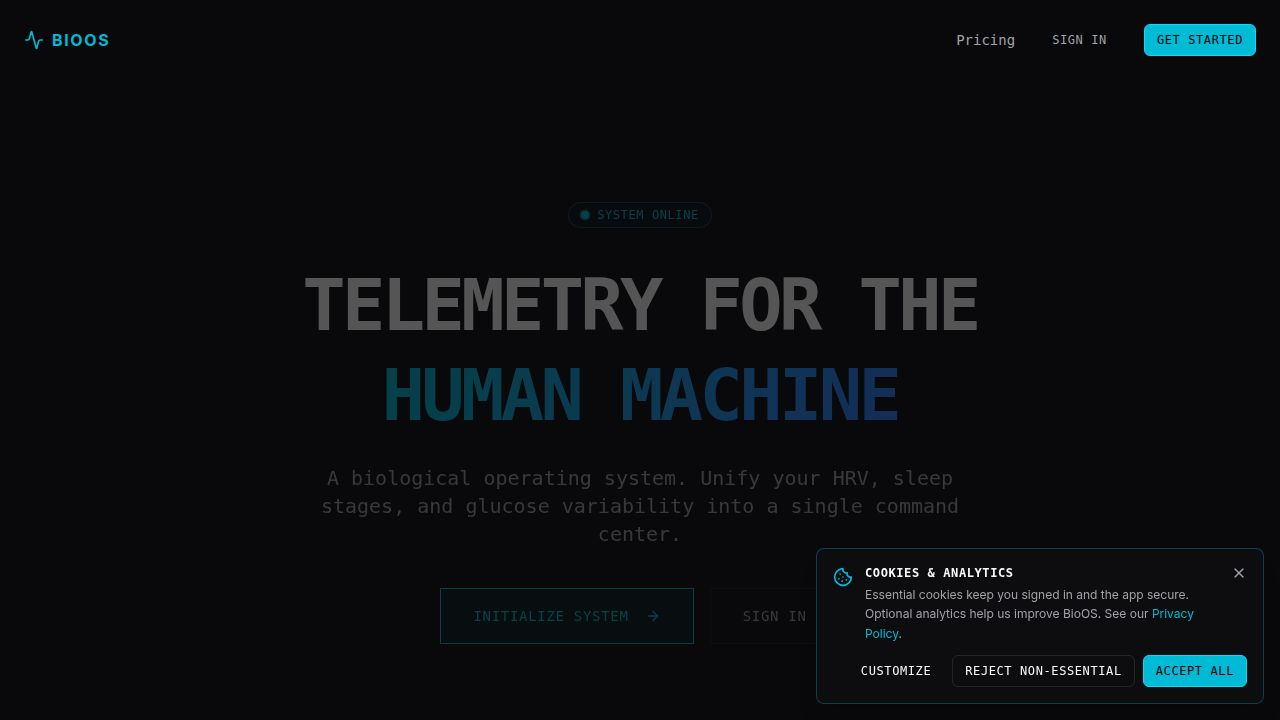
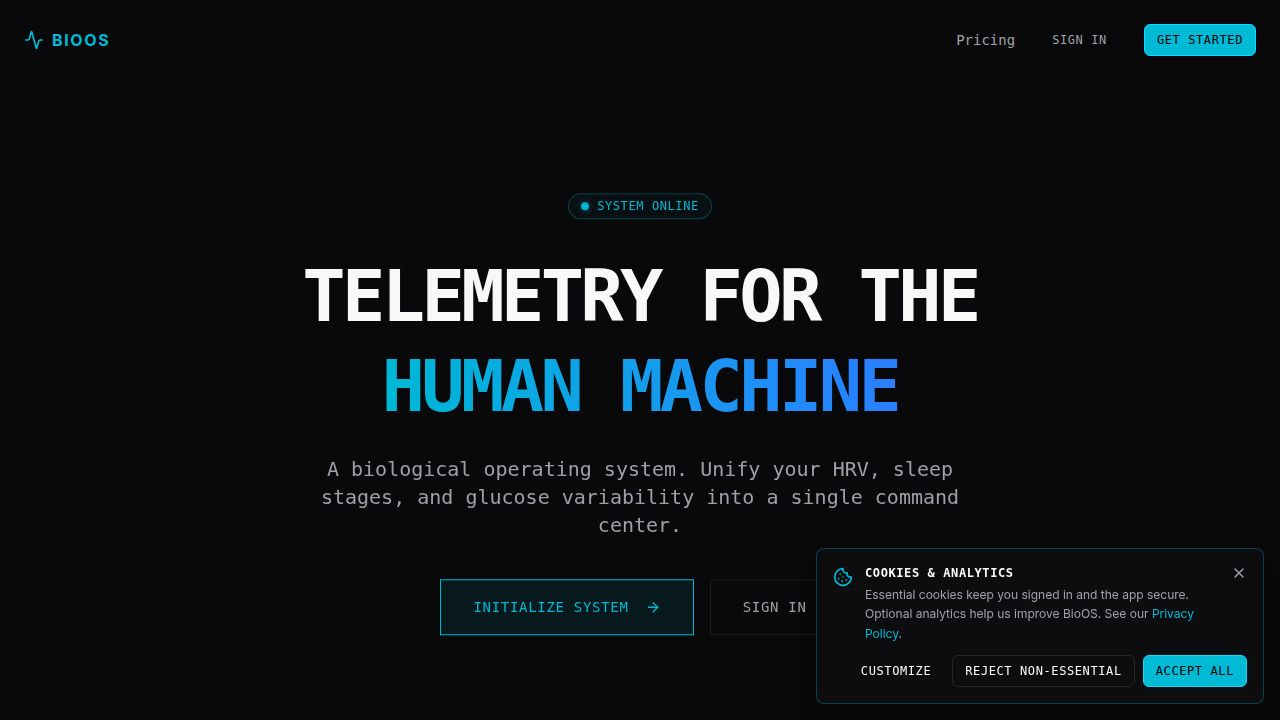
Task #7: Compliance, privacy & legal — round 2 fixes after rejection
Address every critical/high finding from the prior architect review:

- Plaintext users.email column dropped (migration 0003) after a guard
  asserts every row has email_encrypted + email_lookup. Schema marks
  both columns NOT NULL. requireAuth, seed, /users/me/export, User
  OpenAPI schema, layout.tsx and profile.tsx all updated to source
  email from Clerk only. Account-deletion confirmation now compares
  via emailLookupHash instead of plaintext.

- Audit gaps closed: chat assistant inserts now audit on all three
  branches (success, integration_unavailable, ai_error);
  planInterventions audits each auto-created intervention;
  classifyBiologicalState audits each biological_states insert.

- post-signin-consent-modal now FAILS CLOSED on isError — renders a
  dedicated error screen with retry / sign-out instead of unlocking
  the app.

- New deletion-integrity test (artifacts/api-server/src/scripts/
  test-deletion-integrity.ts, "pnpm test:deletion") exercises every
  user-owned table and asserts cascade + set-null behavior. While
  writing it, discovered consent_records and audit_log were missing
  their FKs entirely (drizzle-kit push had created them before
  migration 0002 ran). Migration 0004 retroactively cleans orphans
  then adds the FKs, with structural existence checks (table+column
  +ref+on-delete) so it stays idempotent on fresh DBs.

- backfill-encryption.ts repurposed as an integrity probe now that
[…]

diff --git a/artifacts/api-server/src/lib/state-classifier.ts b/artifacts/api-server/src/lib/state-classifier.ts
@@ -7,6 +7,7 @@ import {
   activitySessionsTable,
   biologicalStatesTable,
 } from "@workspace/db";
+import { recordAudit } from "./audit";
 
 type StateLevel = "optimal" | "good" | "moderate" | "low" | "critical";
 
@@ -143,6 +144,24 @@ export async function classifyBiologicalState(userId: number) {
     .insert(biologicalStatesTable)
     .values({ userId, energyState, recoveryState, cognitiveState, stressState, metabolicState, readinessScore, notes })
     .returning();
+
+  if (state) {
+    await recordAudit({
+      userId,
+      action: "create",
+      entity: "biological_state",
+      entityId: state.id,
+      metadata: {
+        energyState,
+        recoveryState,
+        cognitiveState,
+        stressState,
+        metabolicState,
+        readinessScore,
+        source: "auto_classify",
+      },
+    });
+  }
 
   return state!;
 }

diff --git a/artifacts/api-server/src/scripts/test-deletion-integrity.ts b/artifacts/api-server/src/scripts/test-deletion-integrity.ts
@@ -61,16 +61,16 @@ async function main() {
   // Insert one row into every cascade table using minimal-required values.
   // Raw SQL keeps the script independent of column-level schema drift —
   // we only ever care about the user_id linkage here.
-  await db.execute(sql`INSERT INTO biometric_readings (user_id, type, value, recorded_at) VALUES (${uid}, 'hrv', 50, now())`);
-  await db.execute(sql`INSERT INTO sleep_sessions (user_id, start_time, end_time) VALUES (${uid}, now() - interval '8 hours', now())`);
-  await db.execute(sql`INSERT INTO glucose_readings (user_id, value, recorded_at) VALUES (${uid}, 95, now())`);
-  await db.execute(sql`INSERT INTO activity_sessions (user_id, type, start_time, end_time) VALUES (${uid}, 'walk', now() - interval '30 minutes', now())`);
-  await db.execute(sql`INSERT INTO biological_states (user_id, energy_state, computed_at) VALUES (${uid}, 'optimal', now())`);
+  await db.execute(sql`INSERT INTO biometric_readings (user_id, source, metric, value, unit, recorded_at) VALUES (${uid}, 'test', 'hrv', 50, 'ms', now())`);
+  await db.execute(sql`INSERT INTO sleep_sessions (user_id, source, date, total_minutes, deep_minutes, rem_minutes, light_minutes, awake_minutes, efficiency_pct, onset_at, wake_at) VALUES (${uid}, 'test', current_date, 480, 90, 90, 270, 30, 90, now() - interval '8 hours', now())`);
+  await db.execute(sql`INSERT INTO glucose_readings (user_id, value_mgdl, recorded_at) VALUES (${uid}, 95, now())`);
+  await db.execute(sql`INSERT INTO activity_sessions (user_id, source, type, duration_minutes, intensity, strain_score, recorded_at) VALUES (${uid}, 'test', 'walk', 30, 'low', 5.0, now())`);
+  await db.execute(sql`INSERT INTO biological_states (user_id, energy_state, recovery_state, cognitive_state, stress_state, metabolic_state, readiness_score) VALUES (${uid}, 'optimal', 'recovered', 'sharp', 'calm', 'fed', 80)`);
   await db.execute(sql`INSERT INTO interventions (user_id, type, title, action, rationale, status) VALUES (${uid}, 'breath', 't', 'a', 'r', 'pending')`);
-  await db.execute(sql`INSERT INTO meals (user_id, name, eaten_at) VALUES (${uid}, 'snack', now())`);
-  await db.execute(sql`INSERT INTO supplements (user_id, name, dose, taken_at) VALUES (${uid}, 'mag', '300mg', now())`);
+  await db.execute(sql`INSERT INTO meals (user_id, logged_at, description, calories, carbs_g, protein_g, fat_g) VALUES (${uid}, now(), 'snack', 200, 20, 10, 5)`);
+  await db.execute(sql`INSERT INTO supplements (user_id, name, dose_mg, timing) VALUES (${uid}, 'mag', 300, 'evening')`);
   await db.execute(sql`INSERT INTO chat_messages (user_id, role, content) VALUES (${uid}, 'user', 'hi')`);
-  await db.execute(sql`INSERT INTO integrations (user_id, provider, status) VALUES (${uid}, 'whoop', 'connected')`);
+  await db.execute(sql`INSERT INTO integrations (user_id, provider, category, status) VALUES (${uid}, 'whoop', 'wearable', 'connected')`);
   await db.execute(sql`INSERT INTO consent_records (user_id, document, version, accepted) VALUES (${uid}, 'terms', 'v1.0', true)`);
   await db.execute(sql`INSERT INTO audit_log (user_id, actor_id, action, entity) VALUES (${uid}, ${uid}, 'create', 'test')`);
 

diff --git a/artifacts/api-server/src/lib/encryption.ts b/artifacts/api-server/src/lib/encryption.ts
@@ -9,7 +9,10 @@ function getKey(): Buffer {
   const raw = process.env.APP_ENCRYPTION_KEY;
   if (!raw) {
     throw new Error(
-      "APP_ENCRYPTION_KEY is not set. Refusing to start. Generate a key with `openssl rand -base64 32` and store as a secret.",
+      "APP_ENCRYPTION_KEY is not set. Refusing to start. Generate a key with " +
+        "`openssl rand -base64 32` and store as a Replit Secret (NOT an env var). " +
+        "Production deploys MUST source this from the secret manager — committing " +
+        "the key to .replit/git would defeat field-level encryption entirely.",
     );
   }
   // Accept either base64 or 64-char hex.